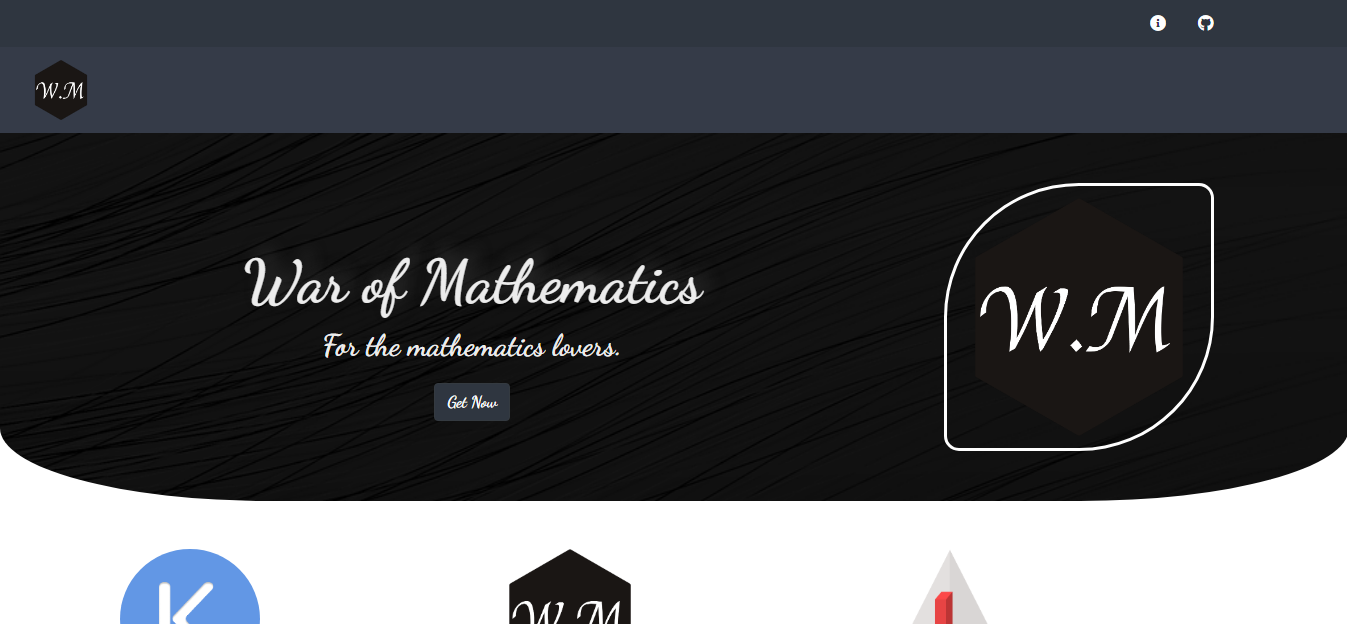
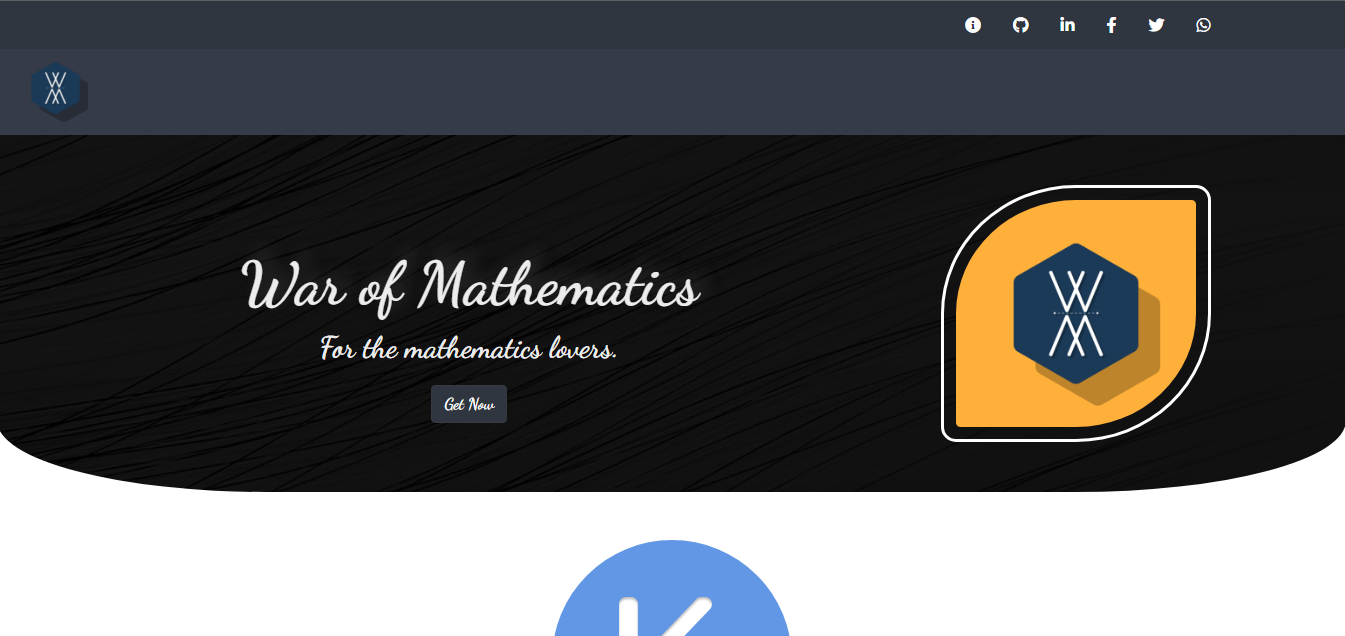
change any docs

diff --git a/wm.html b/wm.html
@@ -2,7 +2,7 @@
 <html lang="en">
   <head>
     <meta charset="utf-8">
-    <!--meta name="viewport" content="width=device-width, initial-scale=1"-->
+    <meta name="viewport" content="width=device-width, initial-scale=1">
     <meta name="author" content="Kevin Orrego">
     <meta name="description" content="">
     <meta name="keywords" content=""/>
@@ -13,7 +13,7 @@
 
     <title>WM</title>
 
-    <link rel="icon" href="https://lsoficial.000webhostapp.com/assets/media/WM.png">
+    <link rel="icon" href="assets/iconWM.png">
 
     <!-- Fonts -->
     <link href="https://fonts.googleapis.com/css?family=Nunito:200,600" rel="stylesheet">
@@ -37,7 +37,7 @@
             <a class="nav-link top-bar" href="http://github.com/KEVAO18" target="_blank"><i class="fab fa-github"></i></a>
           </li>
           <li class="nav-item">
-            <a class="nav-link top-bar" href="https://www.linkedin.com/public-profile/settings?trk=d_flagship3_profile_self_view_public_profile" target="_blank"><i class="fab fa-linkedin-in"></i></a>
+            <a class="nav-link top-bar" href="www.linkedin.com/in/kevaotech" target="_blank"><i class="fab fa-linkedin-in"></i></a>
           </li>
           <li class="nav-item">
             <a class="nav-link top-bar" href="https://www.facebook.com/KEVAO18/" target="_blank"><i class="fab fa-facebook-f"></i></a>
@@ -54,7 +54,7 @@
     <nav class="navbar navbar-expand-lg navbar-dark bg-main stiky-top">
       <div class="container-fluid">
         <a class="navbar-brand">
-          <img src="https://lsoficial.000webhostapp.com/assets/media/WM.png" width="60" height="60" class="d-inline-block align-top" alt="" loading="lazy">
+          <img src="assets/iconWM.png" width="60" height="60" class="d-inline-block align-top" alt="" loading="lazy">
         </a>
       </div>
     </nav>
@@ -68,27 +68,19 @@
           <a href="https://lsoficial.000webhostapp.com/index.php?p=app&id=1" target="_blank" class="bg-1 color-2 btn btn-outline-dark" title="Get Now">Get Now</a>
         </div>
       </div>
-      <img src="https://lsoficial.000webhostapp.com/assets/media/WM.png" class="img-banner" alt="">
+      <img src="assets/WM.png" class="img-banner" alt="">
     </div>
     <div class="container py-5">
       <div class="row row-cols-1 row-cols-md-3 g-4">
         <div class="col-sm-12 col-md-4 text-center">
-          <img class="rounded-circle" src="https://kevaosportafolio.000webhostapp.com//assets/media/favicon.png" alt="Generic placeholder image" width="140" height="140">
+        </div>
+        <div class="col-sm-12 col-md-4 text-center">
+          <img class="rounded-circle" src="https://kevaosportafolio.000webhostapp.com//assets/media/favicon.png" alt="Generic placeholder image" width="240" height="240">
           <h2>Developer</h2>
           <p>Kevin A. Orrego M.</p>
           <p><a class="btn btn-secondary" href="https://kevaosportafolio.000webhostapp.com/index" target="_blank" role="button">visit my website &raquo;</a></p>
         </div>
         <div class="col-sm-12 col-md-4 text-center">
-          <img class="rounded-circle" src="https://lsoficial.000webhostapp.com/assets/media/WM.png" alt="Generic placeholder image" width="140" height="140">
-          <h2>Download</h2>
-          <p>Download it now at LernSoft</p>
-          <p><a class="btn btn-secondary" href="https://lsoficial.000webhostapp.com/?p=app&id=1" target="_blank" role="button">Download Now &raquo;</a></p>
-        </div>
-        <div class="col-sm-12 col-md-4 text-center">
-          <img class="rounded-circle" src="https://lsoficial.000webhostapp.com/assets/media/lern3dv2.png" alt="Generic placeholder image" width="140" height="140">
-          <h2>LernSoft</h2>
-          <p>we have more applications on our platform lsoficial.000webhostapp.com</p>
-          <p><a class="btn btn-secondary" href="https://lsoficial.000webhostapp.com" role="button">Go to website &raquo;</a></p>
         </div>
       </div>
       <hr class="featurette-divider">

diff --git a/index.html b/index.html
@@ -48,12 +48,17 @@
 			</div>
 			<div class="col-md-4 py-2">
 				<div class="card">
-					<a href="show.html#page_three" title=""><img class="card-img-top" src="assets/media/plantilla4.PNG"></img></a>
+					<a href="show.html#wm" title=""><img class="card-img-top" src="assets/media/plantilla2.PNG"></img></a>
 				</div>
 			</div>
       <div class="col-md-4 py-2">
         <div class="card">
           <a href="show.html#page_two" title=""><img class="card-img-top" src="assets/media/plantilla3.png"></img></a>
+        </div>
+      </div>
+      <div class="col-md-4 py-2">
+        <div class="card">
+          <a href="show.html#page_three" title=""><img class="card-img-top" src="assets/media/plantilla4.PNG"></img></a>
         </div>
       </div>
 		</article>

diff --git a/README.md b/README.md
@@ -2,7 +2,7 @@
 |Plantillas|Descripcion|
 |:-------------------------:|:-------------------------:|
 |[Menu](https://kevao18.github.io/plantillas/index.html)| |
-|[Plantilla 1](https://kevao18.github.io/plantillas/wm.html)| |
+|[Plantilla 1](https://kevao18.github.io/plantillas/wm.html)|product presentation prototype|
 |[Plantilla 2](https://kevao18.github.io/plantillas/page_one.html)|landing page prototype|
 |[Plantilla 3](https://kevao18.github.io/plantillas/page_two.html)|contact page prototype|
 |[Plantilla 4](https://kevao18.github.io/plantillas/page_three.html)|main page prototype|
